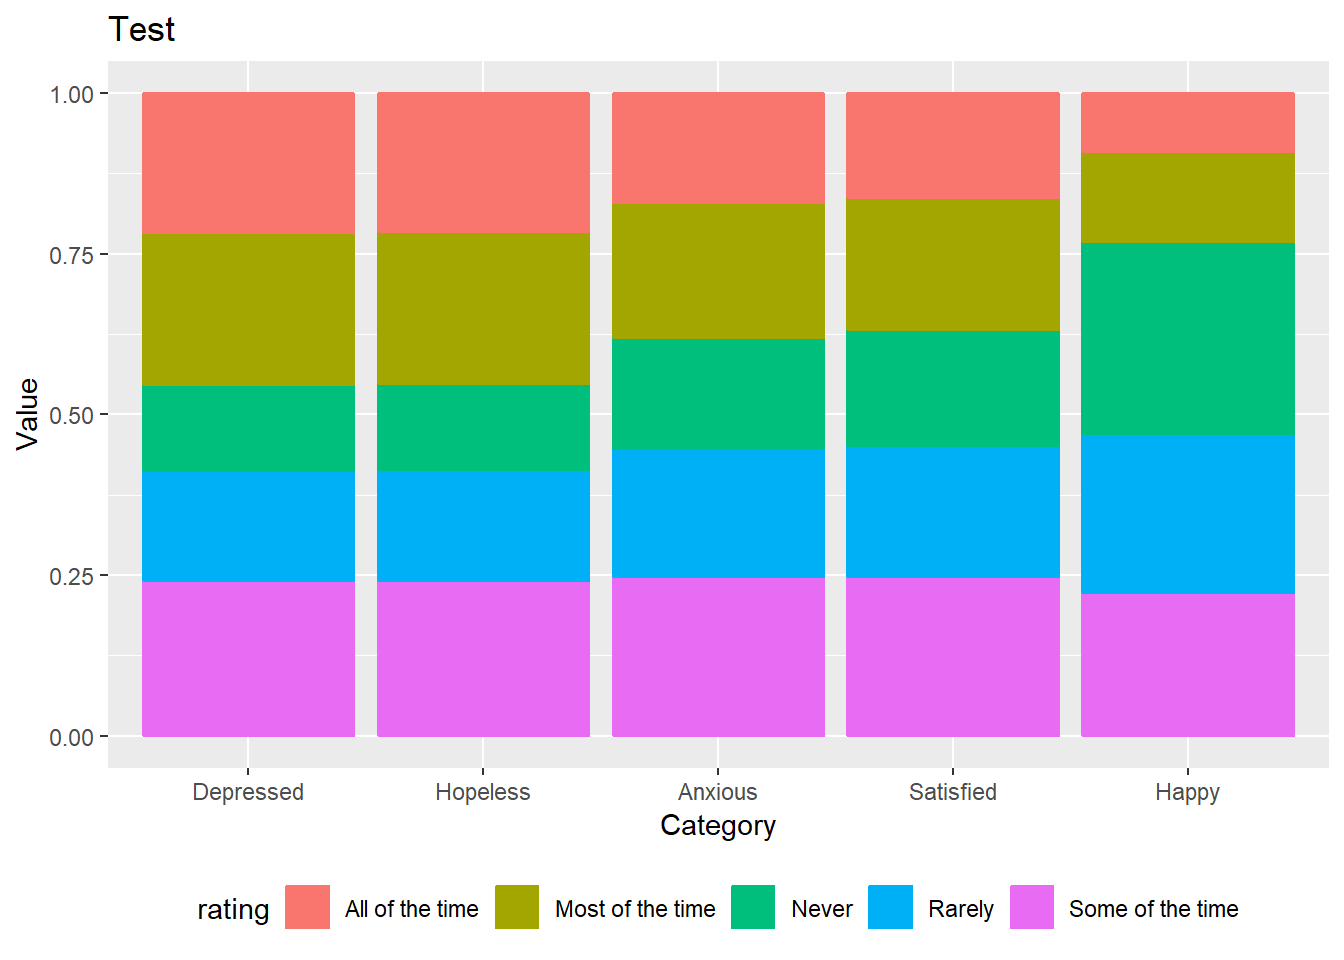
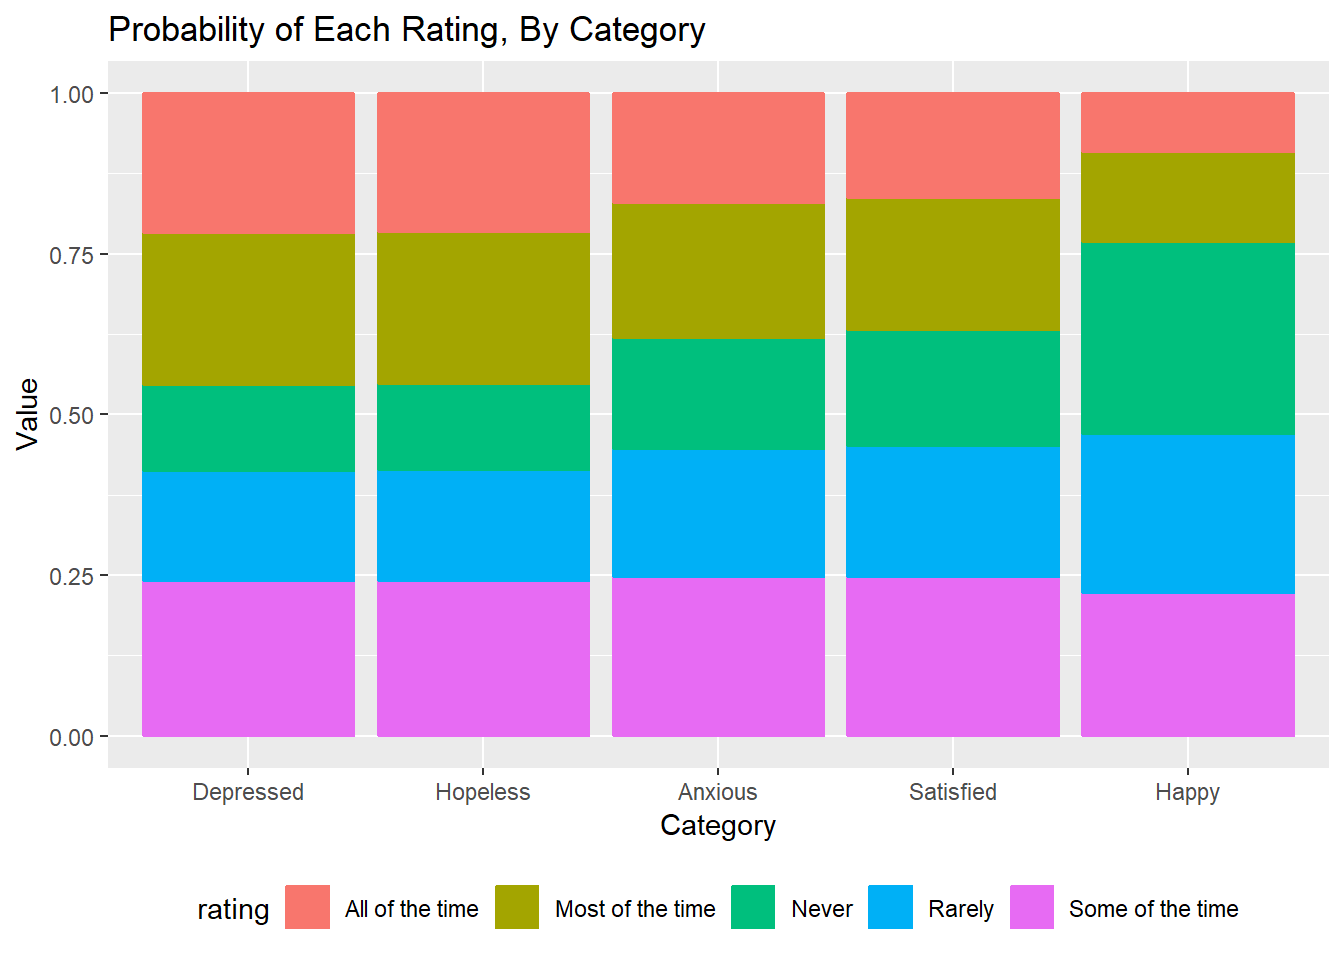
3rd project done

Changed region(s): [[0.0625, 0.0, 0.5312, 0.0625]]

diff --git a/projects3.html b/projects3.html
@@ -580,14 +580,18 @@ font-weight: bold;
 <p><br></p>
 <p>Figure 4: Partial SAS Output for Logistic Regression Model <br> <img src="images/depressed4.jpg" alt="depressed4" style="width:75%; border:1px solid"></p>
 <p><br></p>
-<p>From the SAS output above, we can see that the coefficient for the Depressed item is 1.0094, indicating that the log odds of the Depressed item having a lower-numbered rating compared to the Happy item is 1.0094. Recall that a lower-numbered rating indicates that the respondent experienced the mood more frequently. Thus, respondents experienced depressive moods more often than happy moods.</p>
-<p>Note that the SAS output also gives the odds of a respondent picking a lower-numbered rating for each mood item compared to every other mood item (not shown here).</p>
-<p>The relative magnitude of the slopes in the output above imply the ordering of their frequency. Thus, the order of most frequently experienced mood to least frequently experienced mood among these 90 respondents is depressed, hopeless, anxious, satistfied, and happy.</p>
+<p>Figure 5: Probabilities of Ratings, By Mood <br> <img src="images/depressed5.jpg" alt="depressed5" style="width:75%; border:1px solid"></p>
+<p><br></p>
+<p>From Figure 3 in the SAS output above, we can see that the coefficient for the Depressed item is 1.0094, indicating that the log odds of the Depressed item having a lower-numbered rating compared to the Happy item is 1.0094. Recall that a lower-numbered rating indicates that the respondent experienced the mood more frequently. Thus, respondents experienced depressive moods more often than happy moods.</p>
+<p>The relative magnitude of the slopes in Figure 4 above imply the ordering of their frequency. <strong>Thus, the order of most frequently experienced mood to least frequently experienced mood among these 90 respondents is depressed, hopeless, anxious, satistfied, and happy.</strong> Note that Figure 4 also gives the odds of a respondent picking a lower-numbered rating for each mood item compared to the “Happy” item.</p>
+<p>Figure 5 plots the expected probability of each rating by mood. We can clearly tell, just by viewing the figure, that a respondent is more likely to feel depressed all of the time in the past month rather than feel happy all of the time in the past month.</p>
+<p><br></p>
 </div>
 <div id="results---r" class="section level3">
 <h3>Results - R</h3>
 <p>We run the same model in R. The R code and output for the model is provided below.</p>
-<pre class="r"><code>item &lt;- factor(rep(c(&quot;Happy&quot;, &quot;Depressed&quot;, &quot;Hopeless&quot;, &quot;Satisfied&quot;, &quot;Anxious&quot;), c(90, 90, 90, 90, 90)), 
+<pre class="r"><code>item &lt;- factor(rep(c(&quot;Happy&quot;, &quot;Depressed&quot;, &quot;Hopeless&quot;, &quot;Satisfied&quot;, &quot;Anxious&quot;), 
+        c(90, 90, 90, 90, 90)), 
         levels = c(&quot;Happy&quot;, &quot;Depressed&quot;, &quot;Hopeless&quot;, &quot;Satisfied&quot;, &quot;Anxious&quot;))  
 
 happy &lt;- c(6, 15, 20, 23, 26) # cell counts
@@ -607,16 +611,7 @@ rating2 &lt;- factor(c(rep(rating, happy),
 model &lt;- data.frame(item, rating2)
 
 #Ordinal Logistic Regression Model
-library(MASS)</code></pre>
-<pre><code>## 
-## Attaching package: &#39;MASS&#39;</code></pre>
-<pre><code>## The following object is masked from &#39;package:plotly&#39;:
-## 
-##     select</code></pre>
-<pre><code>## The following object is masked from &#39;package:dplyr&#39;:
-## 
-##     select</code></pre>
-<pre class="r"><code>logmodel &lt;- polr(rating2 ~ item, data = model, Hess = TRUE)
+logmodel &lt;- polr(rating2 ~ item, data = model, Hess = TRUE)
 summary(logmodel)</code></pre>
 <pre><code>## Call:
 ## polr(formula = rating2 ~ item, data = model, Hess = TRUE)
@@ -637,6 +632,19 @@ summary(logmodel)</code></pre>
 ## 
 ## Residual Deviance: 1423.476 
 ## AIC: 1439.476</code></pre>
+<p><br></p>
+<p>Based on the R output above, we can see that the results are the same as those derived from the SAS code. R adds on minus signs to the parameters so that a larger positive parameter/coefficient actually indicates respondents’ preference or tendency toward the HIGHER-numbered ratings for that mood item compared to the reference mood item. For instance, as shown below, exponentiating the coefficient for the Depressed item (-1.0094) gives us 0.3644 while exponentiating the coefficient for the Anxious item (-0.7116) gives us 0.4909 - thus, the odds of the Depressed item having a higher-numbered rating compared to the Happy item is 0.3644 while the odds of the Anxious item having a higher-numbered rating compared to the Happy item is 0.4909.</p>
+<pre class="r"><code>exp(coef(logmodel))</code></pre>
+<pre><code>## itemDepressed  itemHopeless itemSatisfied   itemAnxious 
+##     0.3644238     0.3655091     0.5195137     0.4908442</code></pre>
+<p><br></p>
+<p>If we find the inverse of the exponentiation of all the coefficients, we can derive the odds of a mood item having a LOWER-numbered rating compared to the Happy item, as shown below. Note that these odds ratios are the same as those derived in Figure 3 using SAS! <strong>The order of most frequently experienced mood to least frequently experienced mood among these 90 respondents remains the same as that derived in SAS - depressed, hopeless, anxious, satistfied, and happy.</strong></p>
+<pre class="r"><code>or &lt;- 1 / exp(coef(logmodel))
+or</code></pre>
+<pre><code>## itemDepressed  itemHopeless itemSatisfied   itemAnxious 
+##      2.744058      2.735910      1.924877      2.037306</code></pre>
+<p><br></p>
+<p>Lastly, we can recreate Figure 5 and plot the expected probability of each rating by mood.</p>
 <pre class="r"><code>#Predictions
 predict(logmodel, newdata = data.frame(item = &quot;Depressed&quot;), type = &quot;p&quot;)</code></pre>
 <pre><code>##  All of the time Most of the time Some of the time           Rarely 
@@ -663,7 +671,7 @@ predict(logmodel, newdata = data.frame(item = &quot;Depressed&quot;), type = &qu
 ##       0.09187603       0.14060895       0.22153085       0.24824872 
 ##            Never 
 ##       0.29773545</code></pre>
-<pre class="r"><code>#Probabilities of Each Mood Item Plotted
+<pre class="r"><code>#Probabilities of Rating for Each Mood Item, Plotted
 a &lt;- factor(predict(logmodel, newdata = data.frame(item = &quot;Depressed&quot;), type = &quot;p&quot;))
 b &lt;- factor(predict(logmodel, newdata = data.frame(item = &quot;Hopeless&quot;), type = &quot;p&quot;))
 c &lt;- factor(predict(logmodel, newdata = data.frame(item = &quot;Anxious&quot;), type = &quot;p&quot;))
@@ -676,34 +684,16 @@ anxiouscat &lt;- c(&quot;Anxious&quot;, &quot;Anxious&quot;, &quot;Anxious&quot;
 satisfiedcat &lt;- c(&quot;Satisfied&quot;, &quot;Satisfied&quot;, &quot;Satisfied&quot;, &quot;Satisfied&quot;, &quot;Satisfied&quot;)
 happycat &lt;- c(&quot;Happy&quot;, &quot;Happy&quot;, &quot;Happy&quot;, &quot;Happy&quot;, &quot;Happy&quot;)
 
-library(plyr)</code></pre>
-<pre><code>## -------------------------------------------------------------------------</code></pre>
-<pre><code>## You have loaded plyr after dplyr - this is likely to cause problems.
-## If you need functions from both plyr and dplyr, please load plyr first, then dplyr:
-## library(plyr); library(dplyr)</code></pre>
-<pre><code>## -------------------------------------------------------------------------</code></pre>
-<pre><code>## 
-## Attaching package: &#39;plyr&#39;</code></pre>
-<pre><code>## The following objects are masked from &#39;package:plotly&#39;:
-## 
-##     arrange, mutate, rename, summarise</code></pre>
-<pre><code>## The following objects are masked from &#39;package:dplyr&#39;:
-## 
-##     arrange, count, desc, failwith, id, mutate, rename, summarise,
-##     summarize</code></pre>
-<pre><code>## The following object is masked from &#39;package:purrr&#39;:
-## 
-##     compact</code></pre>
-<pre class="r"><code>apredict &lt;- data.frame(a, depcat, rating)
-apredict &lt;- (plyr::rename(apredict, c(&quot;a&quot;=&quot;value&quot;, &quot;depcat&quot;=&quot;category&quot;, &quot;rating&quot; = &quot;rating&quot;)))
+apredict &lt;- data.frame(a, depcat, rating)
+apredict &lt;- (plyr::rename(apredict, c(&quot;a&quot;=&quot;value&quot;, &quot;depcat&quot;=&quot;category&quot;)))
 bpredict &lt;- data.frame(b, hopelesscat, rating)
-bpredict &lt;- (plyr::rename(bpredict, c(&quot;b&quot;=&quot;value&quot;, &quot;hopelesscat&quot;=&quot;category&quot;, &quot;rating&quot; = &quot;rating&quot;)))
+bpredict &lt;- (plyr::rename(bpredict, c(&quot;b&quot;=&quot;value&quot;, &quot;hopelesscat&quot;=&quot;category&quot;)))
 cpredict &lt;- data.frame(c, anxiouscat, rating)
-cpredict &lt;- (plyr::rename(cpredict, c(&quot;c&quot;=&quot;value&quot;, &quot;anxiouscat&quot;=&quot;category&quot;, &quot;rating&quot; = &quot;rating&quot;)))
+cpredict &lt;- (plyr::rename(cpredict, c(&quot;c&quot;=&quot;value&quot;, &quot;anxiouscat&quot;=&quot;category&quot;)))
 dpredict &lt;- data.frame(d, satisfiedcat, rating)
-dpredict &lt;- (plyr::rename(dpredict, c(&quot;d&quot;=&quot;value&quot;, &quot;satisfiedcat&quot;=&quot;category&quot;, &quot;rating&quot; = &quot;rating&quot;)))
+dpredict &lt;- (plyr::rename(dpredict, c(&quot;d&quot;=&quot;value&quot;, &quot;satisfiedcat&quot;=&quot;category&quot;)))
 epredict &lt;- data.frame(e, happycat, rating)
-epredict &lt;- (plyr::rename(epredict, c(&quot;e&quot;=&quot;value&quot;, &quot;happycat&quot;=&quot;category&quot;, &quot;rating&quot; = &quot;rating&quot;)))
+epredict &lt;- (plyr::rename(epredict, c(&quot;e&quot;=&quot;value&quot;, &quot;happycat&quot;=&quot;category&quot;)))
 
 total &lt;- rbind(apredict, bpredict)
 total2 &lt;- rbind(total, cpredict)
@@ -712,15 +702,11 @@ total4 &lt;- rbind(total3, epredict)
 
 total4$value &lt;- as.numeric(as.character(total4$value))
 
-
-library(plotly)
-library(ggplot2)
-
 plot = total4 %&gt;% 
   ggplot(aes(fill = rating, x = category, y = value, color = rating)) +
   geom_bar(stat = &quot;identity&quot;) +
     labs(
-    title = &quot;Test&quot;,
+    title = &quot;Probability of Each Rating, By Category&quot;,
     x = &quot;Category&quot;,
     y = &quot;Value&quot;
     ) +
